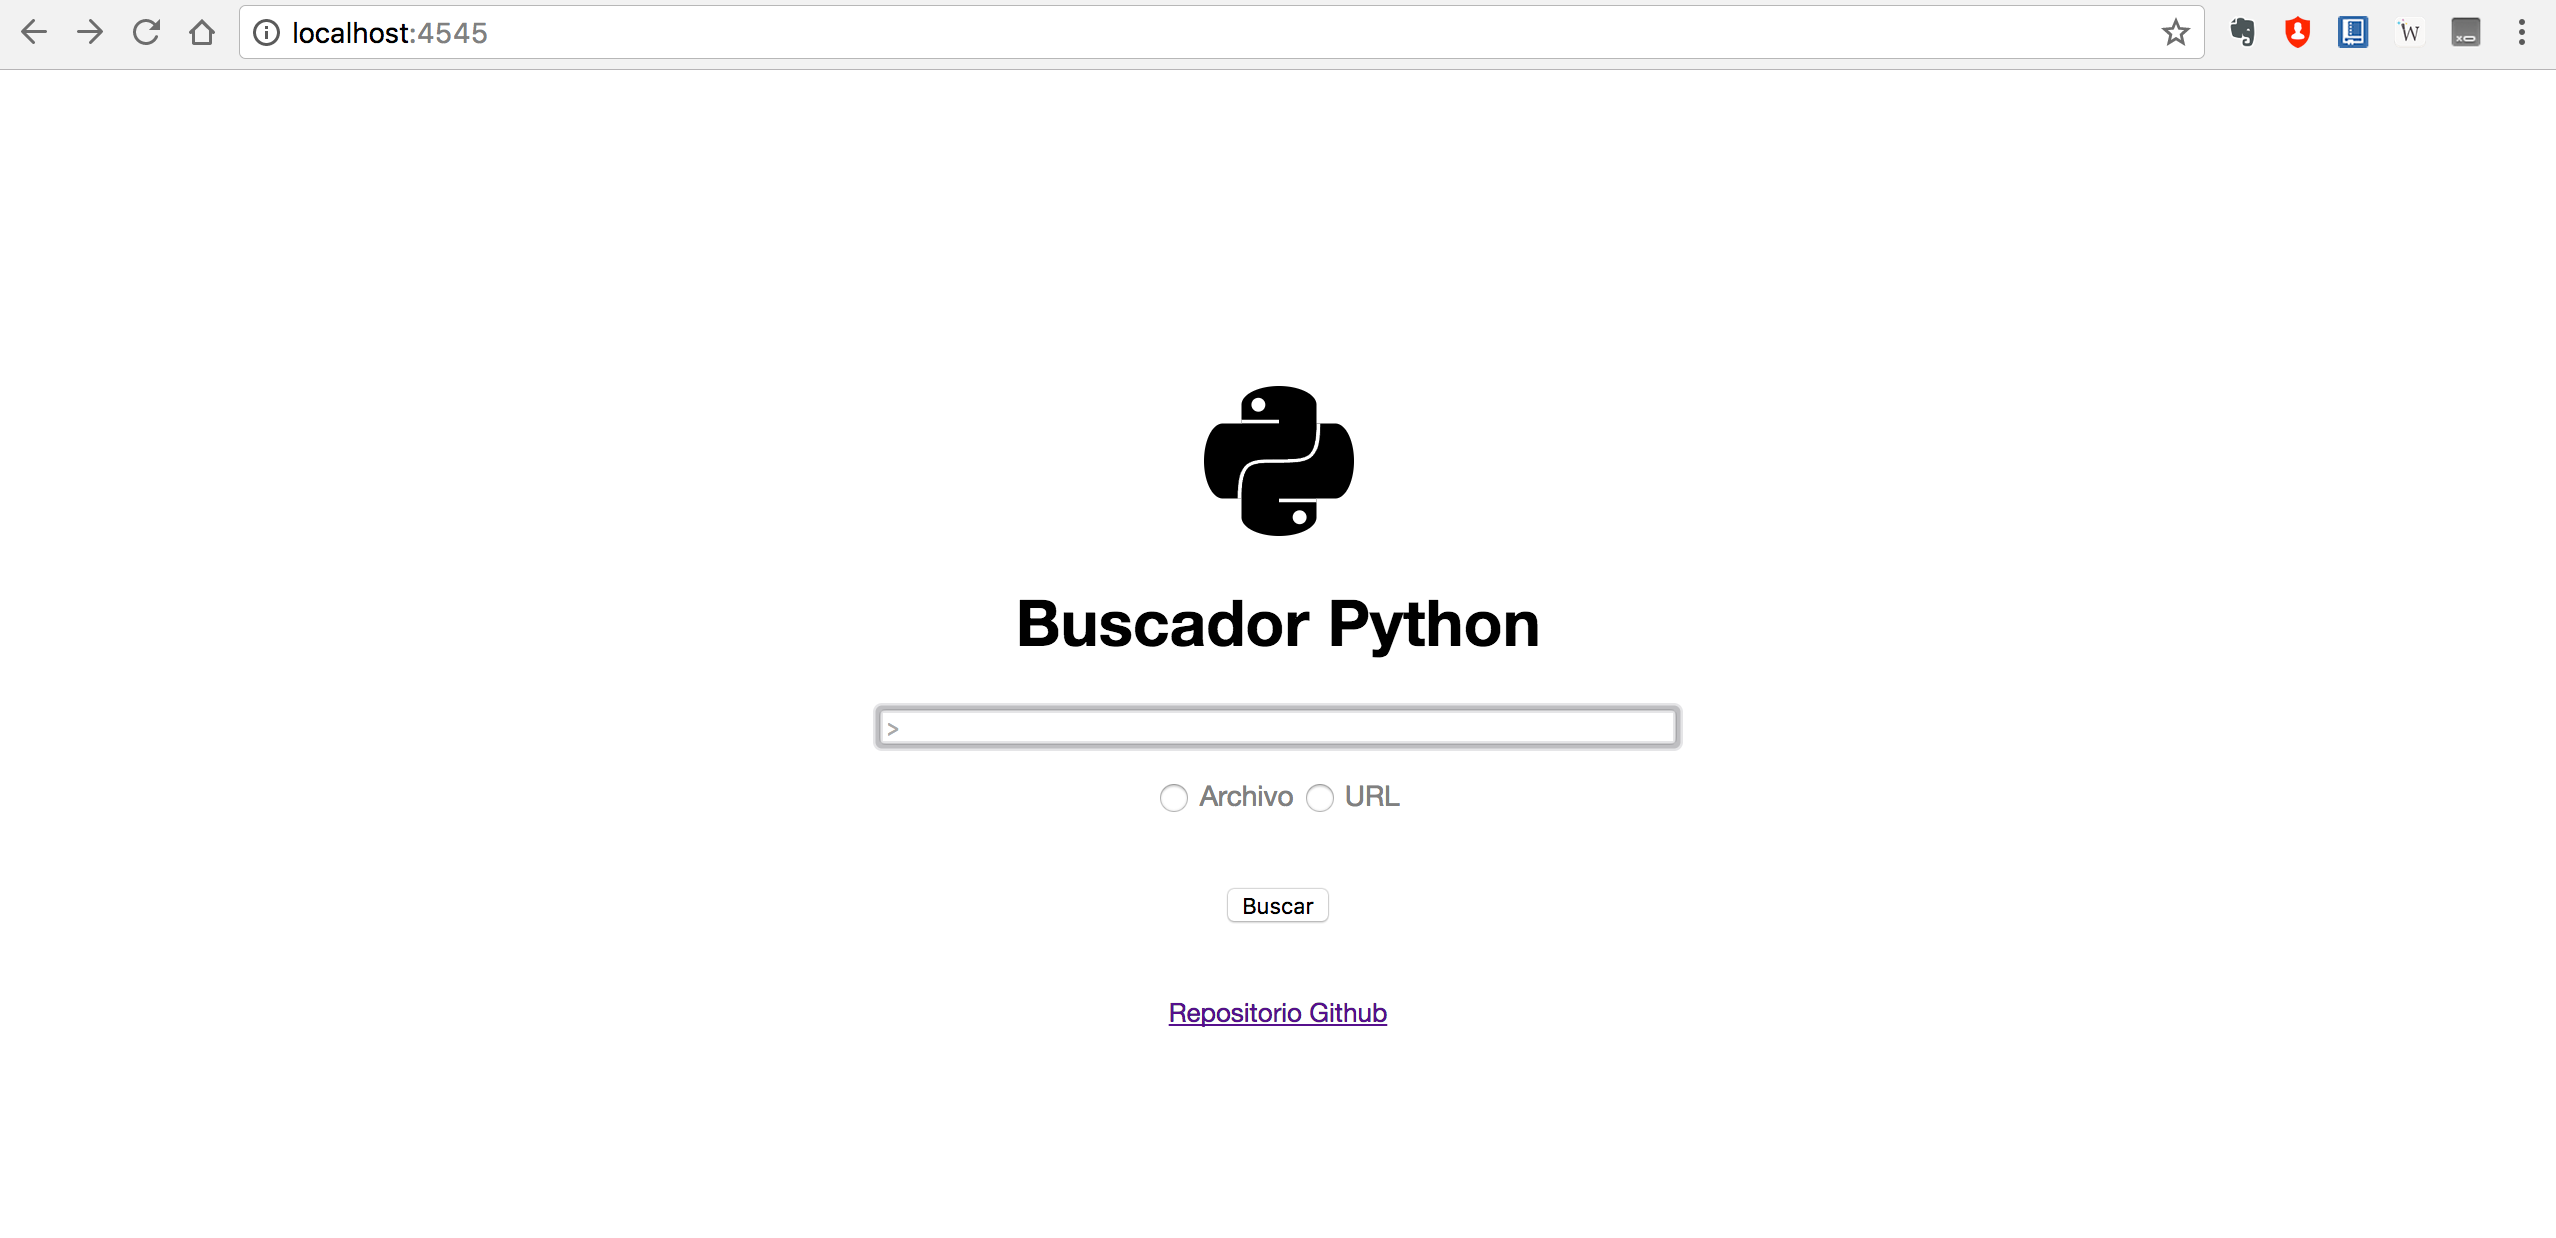
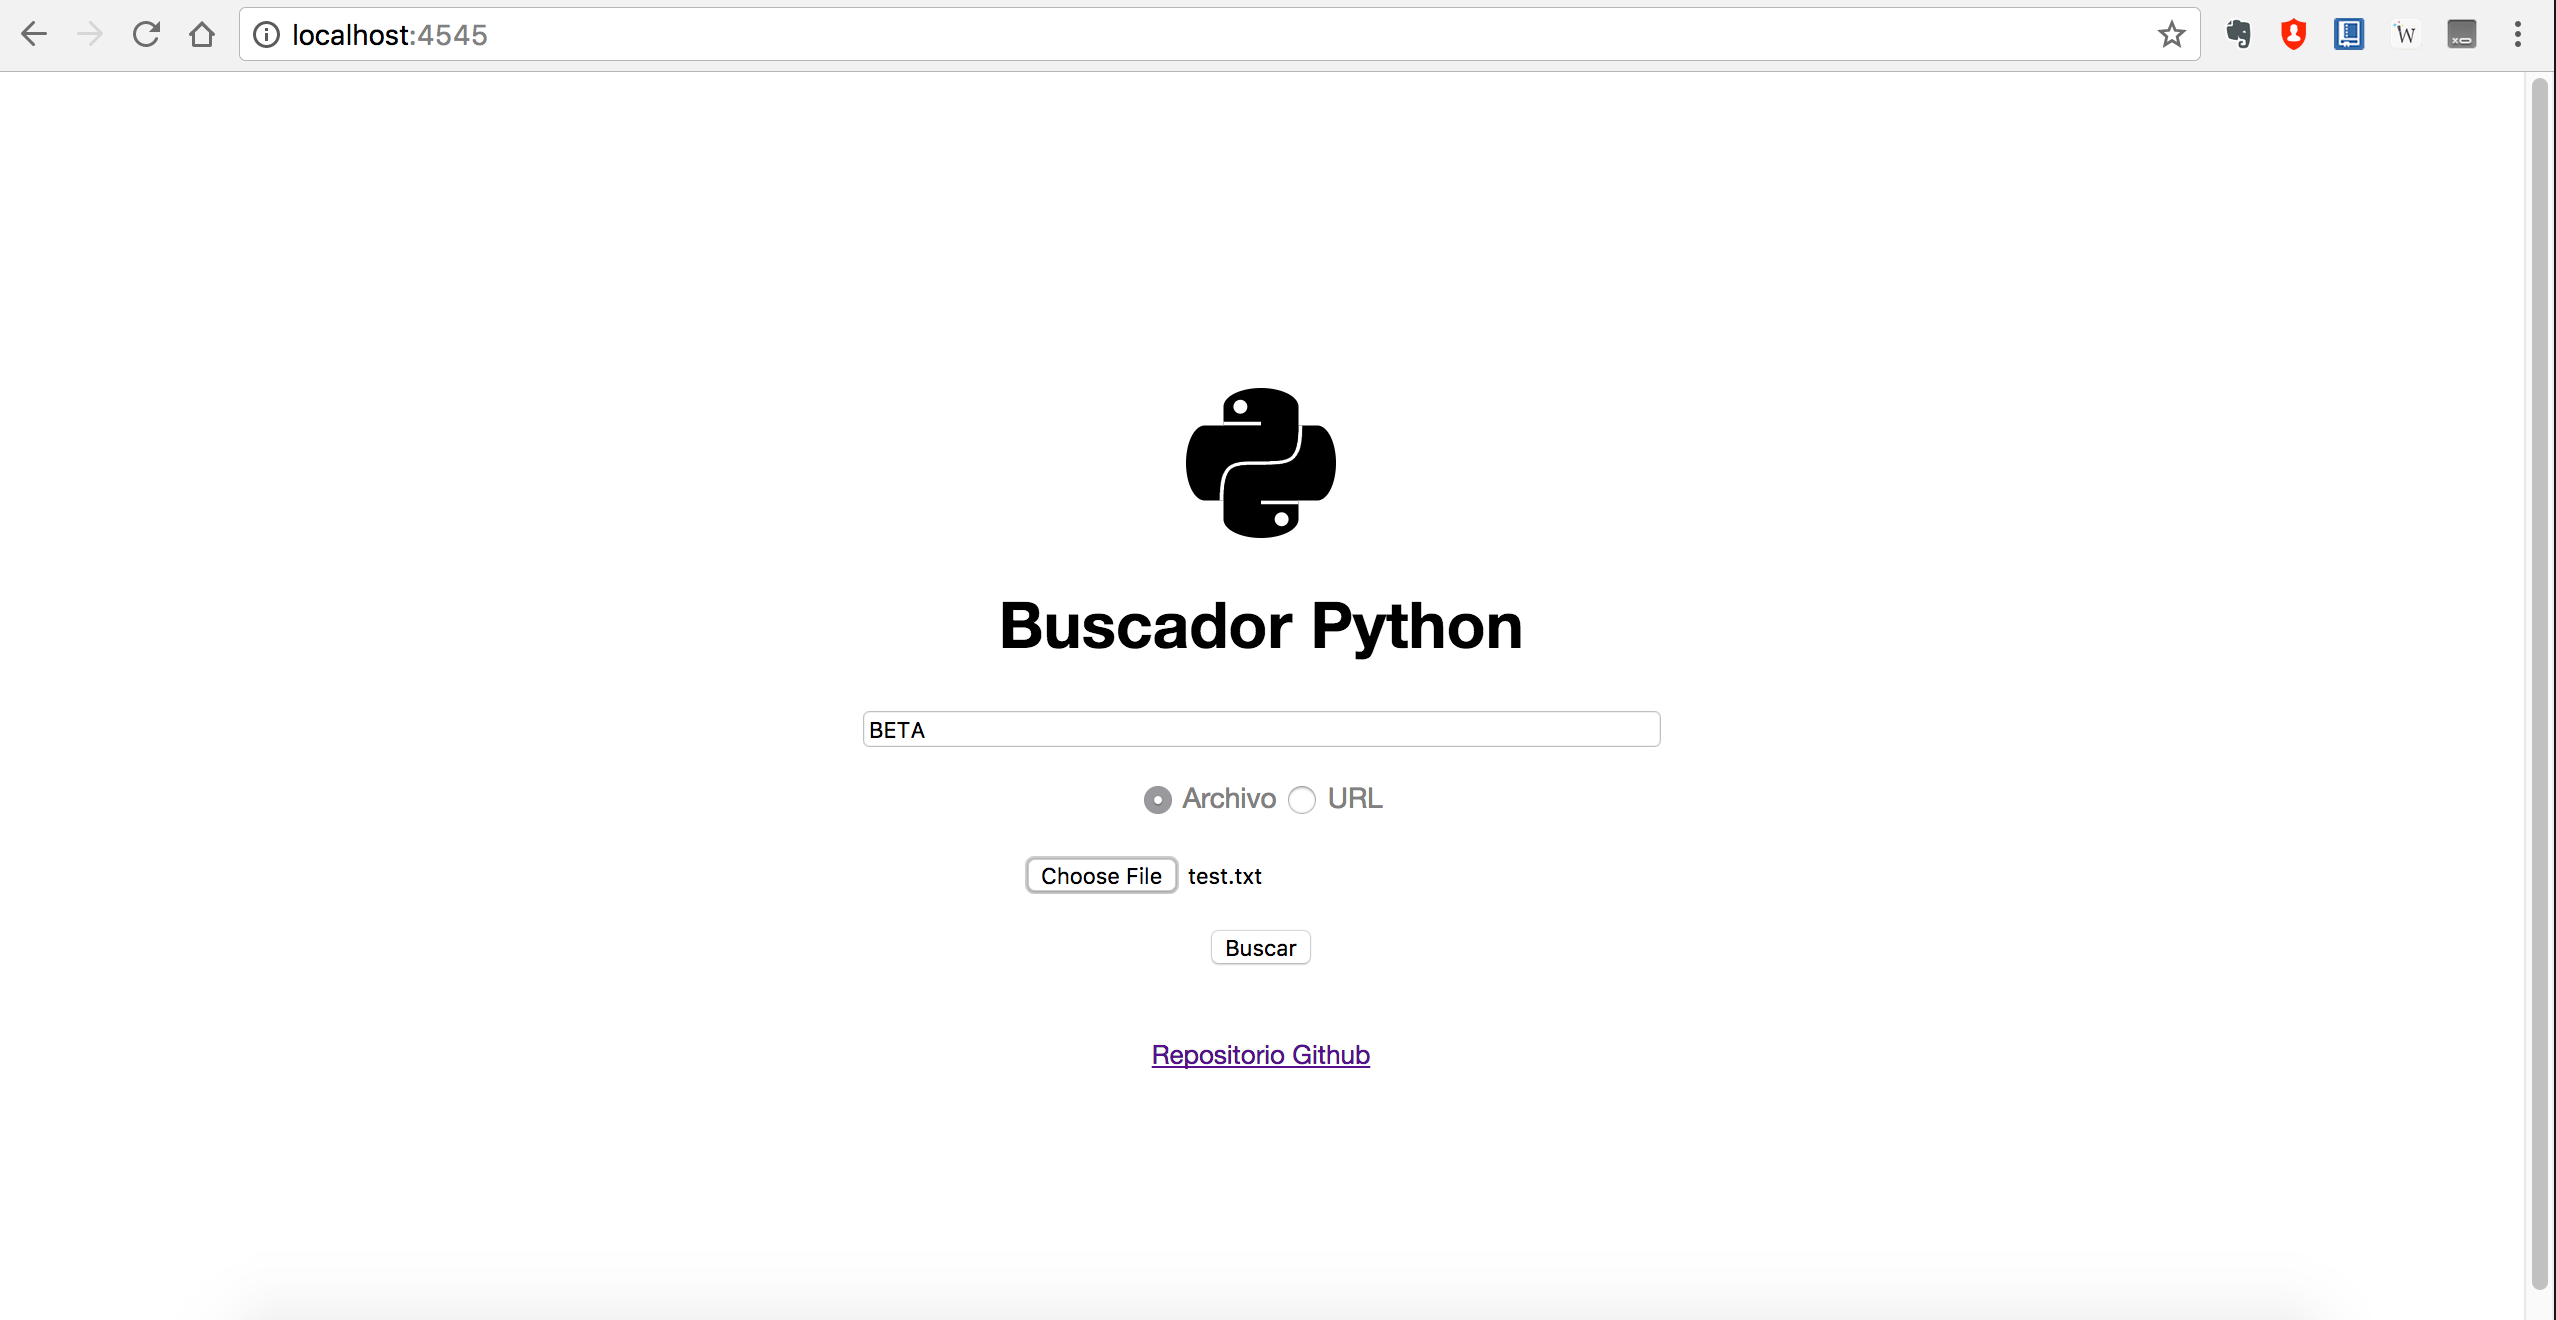
update iamges

diff --git a/README.md b/README.md
@@ -27,4 +27,4 @@ Probar en http://localhost:4545
 
 ### Resultado
 
-<img src="http://i.imgur.com/yTgi6Ft.png">
+<img src="https://raw.githubusercontent.com/juliocesar-io/python_web_practice/master/static/img/screenshot%231.png">
